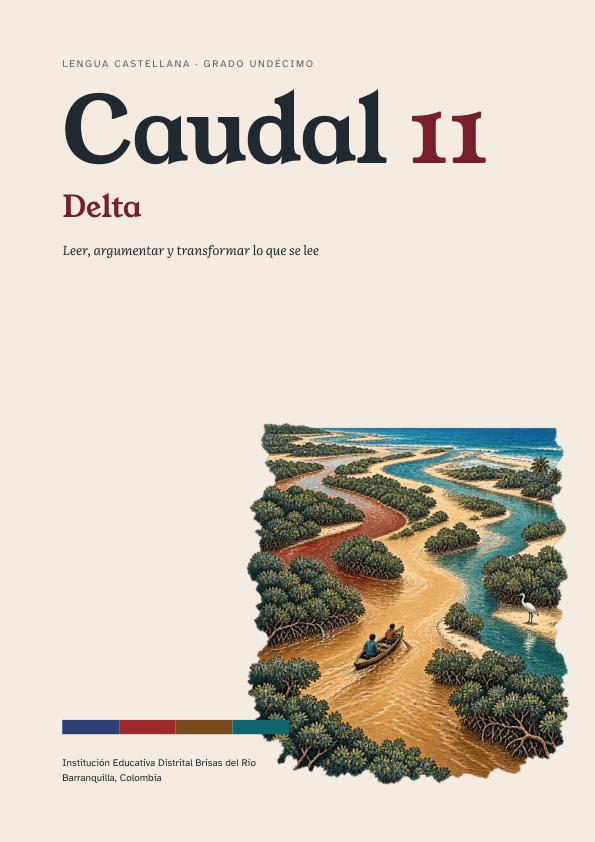
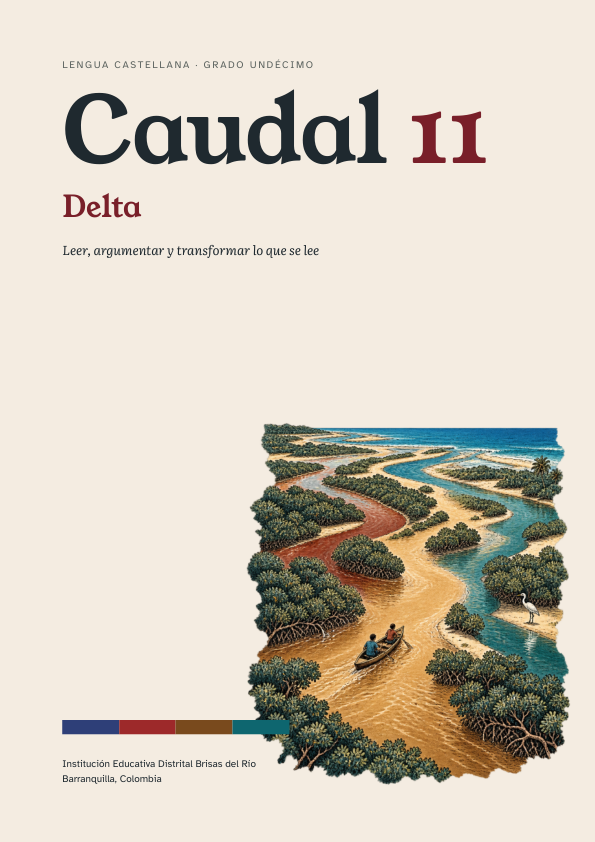
Publica la edición v0.2.0 de Caudal 9, 10 y 11
Caudal 9 pasa a Cabeceras (222 páginas, corrientes en PDF propios) y
Caudal 10 suma su guía docente. README, catálogo, cita, registro de
versiones, portadas y manifiestos apuntan a la publicación v0.2.0; las
guías complementarias y el ZIP de recursos siguen en v0.1.0.

diff --git a/README.md b/README.md
@@ -6,7 +6,7 @@
 
 **Leer, conversar, crear y volver a pensar.**
 
-Proyecto en curso · v0.1.0 · Barranquilla, Colombia
+Proyecto en curso · v0.2.0 · Barranquilla, Colombia
 
 [Libros y descargas](#libros-y-descargas) · [Recursos para el aula](#recursos-para-el-aula) · [Investigación](#un-proyecto-en-construcción) · [Bitácora](docs/BITACORA.md) · [Licencia](DERECHOS.md)
 
@@ -23,22 +23,22 @@ Caudal propone un recorrido por la literatura, las voces del territorio y las pr
 Los enlaces de las portadas descargan los **PDF completos y originales**. Se conservan su contenido, diseño, paginación y créditos.
 
 <table><tr>
-<td align="center" width="33%"><a href="https://github.com/nestorfernando3/caudal/releases/download/v0.1.0/caudal-9-libro-del-estudiante.pdf"><img src="docs/imagenes/caudal-9-portada.png" width="280" alt="Portada original de Caudal 9" /></a><br /><strong>Caudal 9</strong><br />Lengua Castellana<br /><sub>305 páginas</sub><br /><br /><a href="https://github.com/nestorfernando3/caudal/releases/download/v0.1.0/caudal-9-libro-del-estudiante.pdf"><strong>Descargar libro completo</strong></a></td>
-<td align="center" width="33%"><a href="https://github.com/nestorfernando3/caudal/releases/download/v0.1.0/caudal-10-libro-del-estudiante.pdf"><img src="docs/imagenes/caudal-10-portada.png" width="280" alt="Portada original de Caudal 10" /></a><br /><strong>Caudal 10</strong><br />Confluencias<br /><sub>109 páginas</sub><br /><br /><a href="https://github.com/nestorfernando3/caudal/releases/download/v0.1.0/caudal-10-libro-del-estudiante.pdf"><strong>Descargar libro completo</strong></a></td>
-<td align="center" width="33%"><a href="https://github.com/nestorfernando3/caudal/releases/download/v0.1.0/caudal-11-libro-del-estudiante.pdf"><img src="docs/imagenes/caudal-11-portada.png" width="280" alt="Portada original de Caudal 11" /></a><br /><strong>Caudal 11</strong><br />Delta<br /><sub>169 páginas</sub><br /><br /><a href="https://github.com/nestorfernando3/caudal/releases/download/v0.1.0/caudal-11-libro-del-estudiante.pdf"><strong>Descargar libro completo</strong></a></td>
+<td align="center" width="33%"><a href="https://github.com/nestorfernando3/caudal/releases/download/v0.2.0/caudal-9-libro-del-estudiante.pdf"><img src="docs/imagenes/caudal-9-portada.png" width="280" alt="Portada original de Caudal 9" /></a><br /><strong>Caudal 9</strong><br />Cabeceras<br /><sub>222 páginas</sub><br /><br /><a href="https://github.com/nestorfernando3/caudal/releases/download/v0.2.0/caudal-9-libro-del-estudiante.pdf"><strong>Descargar libro completo</strong></a></td>
+<td align="center" width="33%"><a href="https://github.com/nestorfernando3/caudal/releases/download/v0.2.0/caudal-10-libro-del-estudiante.pdf"><img src="docs/imagenes/caudal-10-portada.png" width="280" alt="Portada original de Caudal 10" /></a><br /><strong>Caudal 10</strong><br />Confluencias<br /><sub>109 páginas</sub><br /><br /><a href="https://github.com/nestorfernando3/caudal/releases/download/v0.2.0/caudal-10-libro-del-estudiante.pdf"><strong>Descargar libro completo</strong></a></td>
+<td align="center" width="33%"><a href="https://github.com/nestorfernando3/caudal/releases/download/v0.2.0/caudal-11-libro-del-estudiante.pdf"><img src="docs/imagenes/caudal-11-portada.png" width="280" alt="Portada original de Caudal 11" /></a><br /><strong>Caudal 11</strong><br />Delta<br /><sub>169 páginas</sub><br /><br /><a href="https://github.com/nestorfernando3/caudal/releases/download/v0.2.0/caudal-11-libro-del-estudiante.pdf"><strong>Descargar libro completo</strong></a></td>
 </tr></table>
 
-### Caudal 9 · El corazón, las palabras y el entorno
+### Caudal 9 · Cabeceras
 
-Una entrada a la lectura literaria que conecta emociones, formas de narrar y problemas del entorno. El Romanticismo, el Realismo, el Naturalismo, el Modernismo y las rupturas de la vanguardia se encuentran con la crónica, el teatro, el debate y la escritura propia. La colección empieza por aprender a leer con atención y a sostener una interpretación con pistas del texto.
+Una entrada a la lectura literaria que conecta emociones, formas de narrar y problemas del entorno. El Romanticismo, el Realismo, el Naturalismo, el Modernismo y las rupturas de la vanguardia se encuentran con la crónica, el teatro, el debate y la escritura propia. **Leer, citar y opinar con razones.** La colección empieza por aprender a leer con atención y a sostener una interpretación con pistas del texto.
 
-Sus cuatro unidades son *El corazón y el espejo*, *La selva que devora*, *Lo que dicen las palabras* y *Romper el molde*. El volumen incorpora diagnóstico, actividades, Banco Saber, glosario y portafolio.
+Sus cuatro corrientes son *El corazón y el espejo*, *La selva que devora*, *Lo que dicen las palabras* y *Romper el molde*. El volumen incorpora diagnóstico, actividades con rutas de apoyo y de ampliación, Banco Saber, glosario y portafolio. La edición v0.2.0 se rehízo a partir de lo que propusieron estudiantes que leyeron el libro: la [bitácora](docs/BITACORA.md) cuenta qué cambió y por qué. Las corrientes también pueden descargarse por separado desde la [publicación de la colección](https://github.com/nestorfernando3/caudal/releases/tag/v0.2.0).
 
 ### Caudal 10 · Confluencias
 
 **Leer, contrastar y sostener una idea.** El diálogo entre épocas y voces orienta un recorrido por la literatura medieval, el Siglo de Oro, el Romanticismo y las vanguardias. Las lecturas se ponen en relación con discursos, imágenes, datos y preguntas del presente; el trabajo conduce a contrastar versiones, construir argumentos y responder objeciones.
 
-Sus cuatro corrientes son *Quien canta, cuenta*, *Lo que se dice a media voz*, *Ver para contar* y *Romper y sostener*. También pueden descargarse como cuadernillos independientes desde la [publicación de la colección](https://github.com/nestorfernando3/caudal/releases/tag/v0.1.0).
+Sus cuatro corrientes son *Quien canta, cuenta*, *Lo que se dice a media voz*, *Ver para contar* y *Romper y sostener*. También pueden descargarse como cuadernillos independientes desde la [publicación de la colección](https://github.com/nestorfernando3/caudal/releases/tag/v0.2.0).
 
 ### Caudal 11 · Delta
 
@@ -50,11 +50,11 @@ Sus cuatro corrientes son *Mirar de frente*, *Voces a contracorriente*, *El peso
 
 | Grado | Biblioteca del río | Guía del docente |
 |---|---|---|
-| 9.º | [Descargar lecturas](https://github.com/nestorfernando3/caudal/releases/download/v0.1.0/caudal-9-biblioteca-del-rio.pdf) | [Descargar guía](https://github.com/nestorfernando3/caudal/releases/download/v0.1.0/caudal-9-guia-docente.pdf) |
-| 10.º | [Descargar lecturas](https://github.com/nestorfernando3/caudal/releases/download/v0.1.0/caudal-10-biblioteca-del-rio.pdf) | [Descargar guía](https://github.com/nestorfernando3/caudal/releases/download/v0.1.0/Caudal_10_Guia_para_el_docente.pdf) |
-| 11.º | [Descargar lecturas](https://github.com/nestorfernando3/caudal/releases/download/v0.1.0/caudal-11-biblioteca-del-rio.pdf) | [Descargar guía](https://github.com/nestorfernando3/caudal/releases/download/v0.1.0/caudal-11-guia-docente.pdf) |
+| 9.º | [Descargar lecturas](https://github.com/nestorfernando3/caudal/releases/download/v0.2.0/caudal-9-biblioteca-del-rio.pdf) | [Descargar guía](https://github.com/nestorfernando3/caudal/releases/download/v0.2.0/caudal-9-guia-docente.pdf) |
+| 10.º | [Descargar lecturas](https://github.com/nestorfernando3/caudal/releases/download/v0.2.0/caudal-10-biblioteca-del-rio.pdf) | [Descargar guía](https://github.com/nestorfernando3/caudal/releases/download/v0.2.0/caudal-10-guia-docente.pdf) |
+| 11.º | [Descargar lecturas](https://github.com/nestorfernando3/caudal/releases/download/v0.2.0/caudal-11-biblioteca-del-rio.pdf) | [Descargar guía](https://github.com/nestorfernando3/caudal/releases/download/v0.2.0/caudal-11-guia-docente.pdf) |
 
-También está disponible la [guía complementaria de Caudal 11](https://github.com/nestorfernando3/caudal/releases/download/v0.1.0/Caudal_11_Guia_para_el_docente.pdf). El [catálogo completo](docs/CATALOGO.md) identifica cada PDF y su extensión. Todas las descargas están reunidas en la [publicación v0.1.0](https://github.com/nestorfernando3/caudal/releases/tag/v0.1.0).
+Las guías complementarias de [Caudal 10](https://github.com/nestorfernando3/caudal/releases/download/v0.1.0/Caudal_10_Guia_para_el_docente.pdf) y [Caudal 11](https://github.com/nestorfernando3/caudal/releases/download/v0.1.0/Caudal_11_Guia_para_el_docente.pdf) siguen disponibles en la publicación anterior. El [catálogo completo](docs/CATALOGO.md) identifica cada PDF y su extensión. Todas las descargas vigentes están reunidas en la [publicación v0.2.0](https://github.com/nestorfernando3/caudal/releases/tag/v0.2.0); la [v0.1.0](https://github.com/nestorfernando3/caudal/releases/tag/v0.1.0) conserva la edición anterior.
 
 ## Una ruta que recorre la colección
 
@@ -91,7 +91,7 @@ La [bitácora de la serie](docs/BITACORA.md) cuenta, paso a paso y en lenguaje s
 
 ## Cómo citar
 
-> De León Llanos, N. F. (2026). *Caudal: Lengua Castellana, grados 9, 10 y 11* (v0.1.0) [Proyecto en curso y materiales pedagógicos]. GitHub. https://github.com/nestorfernando3/caudal
+> De León Llanos, N. F. (2026). *Caudal: Lengua Castellana, grados 9, 10 y 11* (v0.2.0) [Proyecto en curso y materiales pedagógicos]. GitHub. https://github.com/nestorfernando3/caudal
 
 Para citar un libro o una ficha, añade su título y la página o sección utilizada. Los [metadatos de cita](CITATION.cff), el [catálogo de PDF](docs/CATALOGO.json) y los [manifiestos de archivos](MANIFEST.json) permiten identificar las versiones.
 

diff --git a/docs/CATALOGO.md b/docs/CATALOGO.md
@@ -1,26 +1,31 @@
 # Catálogo de Caudal 9, 10 y 11
 
-PDF originales disponibles para descarga. Corte del archivo: 25 de octubre de 2026.
+PDF originales disponibles para descarga. Corte del archivo: 2 de noviembre de 2026 (v0.2.0).
 
 | Grado | Archivo | Páginas |
 |---|---|---:|
-| 9 | [caudal-9-biblioteca-del-rio.pdf](https://github.com/nestorfernando3/caudal/releases/download/v0.1.0/caudal-9-biblioteca-del-rio.pdf) | 575 |
-| 9 | [caudal-9-guia-docente.pdf](https://github.com/nestorfernando3/caudal/releases/download/v0.1.0/caudal-9-guia-docente.pdf) | 73 |
-| 9 | [caudal-9-libro-del-estudiante.pdf](https://github.com/nestorfernando3/caudal/releases/download/v0.1.0/caudal-9-libro-del-estudiante.pdf) | 305 |
-| 10 | [caudal-10-biblioteca-del-rio.pdf](https://github.com/nestorfernando3/caudal/releases/download/v0.1.0/caudal-10-biblioteca-del-rio.pdf) | 112 |
-| 10 | [caudal-10-corriente-1-quien-canta-cuenta.pdf](https://github.com/nestorfernando3/caudal/releases/download/v0.1.0/caudal-10-corriente-1-quien-canta-cuenta.pdf) | 18 |
-| 10 | [caudal-10-corriente-2-lo-que-se-dice-a-media-voz.pdf](https://github.com/nestorfernando3/caudal/releases/download/v0.1.0/caudal-10-corriente-2-lo-que-se-dice-a-media-voz.pdf) | 27 |
-| 10 | [caudal-10-corriente-3-ver-para-contar.pdf](https://github.com/nestorfernando3/caudal/releases/download/v0.1.0/caudal-10-corriente-3-ver-para-contar.pdf) | 25 |
-| 10 | [caudal-10-corriente-4-romper-y-sostener.pdf](https://github.com/nestorfernando3/caudal/releases/download/v0.1.0/caudal-10-corriente-4-romper-y-sostener.pdf) | 17 |
-| 10 | [caudal-10-libro-del-estudiante.pdf](https://github.com/nestorfernando3/caudal/releases/download/v0.1.0/caudal-10-libro-del-estudiante.pdf) | 109 |
-| 11 | [caudal-11-biblioteca-del-rio.pdf](https://github.com/nestorfernando3/caudal/releases/download/v0.1.0/caudal-11-biblioteca-del-rio.pdf) | 25 |
-| 11 | [caudal-11-corriente-1-mirar-de-frente.pdf](https://github.com/nestorfernando3/caudal/releases/download/v0.1.0/caudal-11-corriente-1-mirar-de-frente.pdf) | 39 |
-| 11 | [caudal-11-corriente-2-voces-a-contracorriente.pdf](https://github.com/nestorfernando3/caudal/releases/download/v0.1.0/caudal-11-corriente-2-voces-a-contracorriente.pdf) | 31 |
-| 11 | [caudal-11-corriente-3-el-peso-del-medio.pdf](https://github.com/nestorfernando3/caudal/releases/download/v0.1.0/caudal-11-corriente-3-el-peso-del-medio.pdf) | 35 |
-| 11 | [caudal-11-corriente-4-cambiar-de-forma.pdf](https://github.com/nestorfernando3/caudal/releases/download/v0.1.0/caudal-11-corriente-4-cambiar-de-forma.pdf) | 31 |
-| 11 | [caudal-11-guia-docente.pdf](https://github.com/nestorfernando3/caudal/releases/download/v0.1.0/caudal-11-guia-docente.pdf) | 54 |
-| 11 | [caudal-11-libro-del-estudiante.pdf](https://github.com/nestorfernando3/caudal/releases/download/v0.1.0/caudal-11-libro-del-estudiante.pdf) | 169 |
+| 9 | [caudal-9-biblioteca-del-rio.pdf](https://github.com/nestorfernando3/caudal/releases/download/v0.2.0/caudal-9-biblioteca-del-rio.pdf) | 466 |
+| 9 | [caudal-9-corriente-1-el-corazon-y-el-espejo.pdf](https://github.com/nestorfernando3/caudal/releases/download/v0.2.0/caudal-9-corriente-1-el-corazon-y-el-espejo.pdf) | 49 |
+| 9 | [caudal-9-corriente-2-la-selva-que-devora.pdf](https://github.com/nestorfernando3/caudal/releases/download/v0.2.0/caudal-9-corriente-2-la-selva-que-devora.pdf) | 55 |
+| 9 | [caudal-9-corriente-3-lo-que-dicen-las-palabras.pdf](https://github.com/nestorfernando3/caudal/releases/download/v0.2.0/caudal-9-corriente-3-lo-que-dicen-las-palabras.pdf) | 46 |
+| 9 | [caudal-9-corriente-4-romper-el-molde.pdf](https://github.com/nestorfernando3/caudal/releases/download/v0.2.0/caudal-9-corriente-4-romper-el-molde.pdf) | 45 |
+| 9 | [caudal-9-guia-docente.pdf](https://github.com/nestorfernando3/caudal/releases/download/v0.2.0/caudal-9-guia-docente.pdf) | 44 |
+| 9 | [caudal-9-libro-del-estudiante.pdf](https://github.com/nestorfernando3/caudal/releases/download/v0.2.0/caudal-9-libro-del-estudiante.pdf) | 222 |
+| 10 | [caudal-10-biblioteca-del-rio.pdf](https://github.com/nestorfernando3/caudal/releases/download/v0.2.0/caudal-10-biblioteca-del-rio.pdf) | 112 |
+| 10 | [caudal-10-corriente-1-quien-canta-cuenta.pdf](https://github.com/nestorfernando3/caudal/releases/download/v0.2.0/caudal-10-corriente-1-quien-canta-cuenta.pdf) | 18 |
+| 10 | [caudal-10-corriente-2-lo-que-se-dice-a-media-voz.pdf](https://github.com/nestorfernando3/caudal/releases/download/v0.2.0/caudal-10-corriente-2-lo-que-se-dice-a-media-voz.pdf) | 26 |
+| 10 | [caudal-10-corriente-3-ver-para-contar.pdf](https://github.com/nestorfernando3/caudal/releases/download/v0.2.0/caudal-10-corriente-3-ver-para-contar.pdf) | 25 |
+| 10 | [caudal-10-corriente-4-romper-y-sostener.pdf](https://github.com/nestorfernando3/caudal/releases/download/v0.2.0/caudal-10-corriente-4-romper-y-sostener.pdf) | 17 |
+| 10 | [caudal-10-guia-docente.pdf](https://github.com/nestorfernando3/caudal/releases/download/v0.2.0/caudal-10-guia-docente.pdf) | 27 |
+| 10 | [caudal-10-libro-del-estudiante.pdf](https://github.com/nestorfernando3/caudal/releases/download/v0.2.0/caudal-10-libro-del-estudiante.pdf) | 109 |
+| 11 | [caudal-11-biblioteca-del-rio.pdf](https://github.com/nestorfernando3/caudal/releases/download/v0.2.0/caudal-11-biblioteca-del-rio.pdf) | 51 |
+| 11 | [caudal-11-corriente-1-mirar-de-frente.pdf](https://github.com/nestorfernando3/caudal/releases/download/v0.2.0/caudal-11-corriente-1-mirar-de-frente.pdf) | 39 |
+| 11 | [caudal-11-corriente-2-voces-a-contracorriente.pdf](https://github.com/nestorfernando3/caudal/releases/download/v0.2.0/caudal-11-corriente-2-voces-a-contracorriente.pdf) | 31 |
+| 11 | [caudal-11-corriente-3-el-peso-del-medio.pdf](https://github.com/nestorfernando3/caudal/releases/download/v0.2.0/caudal-11-corriente-3-el-peso-del-medio.pdf) | 35 |
+| 11 | [caudal-11-corriente-4-cambiar-de-forma.pdf](https://github.com/nestorfernando3/caudal/releases/download/v0.2.0/caudal-11-corriente-4-cambiar-de-forma.pdf) | 31 |
+| 11 | [caudal-11-guia-docente.pdf](https://github.com/nestorfernando3/caudal/releases/download/v0.2.0/caudal-11-guia-docente.pdf) | 55 |
+| 11 | [caudal-11-libro-del-estudiante.pdf](https://github.com/nestorfernando3/caudal/releases/download/v0.2.0/caudal-11-libro-del-estudiante.pdf) | 169 |
 | 10 | [Caudal_10_Guia_para_el_docente.pdf](https://github.com/nestorfernando3/caudal/releases/download/v0.1.0/Caudal_10_Guia_para_el_docente.pdf) | 37 |
 | 11 | [Caudal_11_Guia_para_el_docente.pdf](https://github.com/nestorfernando3/caudal/releases/download/v0.1.0/Caudal_11_Guia_para_el_docente.pdf) | 38 |
 
-Las guías complementarias se conservan como recursos separados. Los libros alternativos y las presentaciones mantienen su archivo privado. Las huellas SHA-256 están en [CATALOGO.json](CATALOGO.json).
+Las guías complementarias de 10 y 11 se conservan como recursos separados en la publicación v0.1.0, que guarda también la edición anterior de los libros. Los libros alternativos y las presentaciones mantienen su archivo privado. Las huellas SHA-256 están en [CATALOGO.json](CATALOGO.json).

diff --git a/CHANGELOG.md b/CHANGELOG.md
@@ -1,8 +1,8 @@
 # Registro de versiones
 
-## En preparación · 1 y 2 de noviembre de 2026
+## v0.2.0 · 2 de noviembre de 2026 · Proyecto en curso
 
-Revisión de la serie a partir de una consulta a estudiantes de 8A, que leyeron *Caudal 9* y propusieron cambios. *Caudal 9* se rehace con el diseño de 10 y 11 y pasa a llamarse *Cabeceras*: corrientes en lugar de unidades, lecturas largas en la *Biblioteca del río 9*, glosas en las lecturas comunes, una voz del Caribe en cada corriente, anuncios con formatos actuales, edición para celular y rutas Cauce, Remo y Afluente visibles en cada actividad. Entran una charla de William Kamkwamba, dos canciones de Jorge Drexler y una lectura dramatizada, con códigos QR a sus fuentes. *Caudal 10* recibe guía docente completa y DBA corregidos; *Caudal 11*, una clave del simulacro revisada y una *Biblioteca del río* que ya no repite el libro. La [bitácora](docs/BITACORA.md) cuenta paso a paso qué cambió, quién lo motivó y qué decisiones tomó el autor. Las descargas siguen siendo las de v0.1.0: las nuevas ediciones se publicarán en una versión posterior.
+Revisión de la serie a partir de una consulta a estudiantes de 8A, que leyeron *Caudal 9* y propusieron cambios. *Caudal 9* se rehace con el diseño de 10 y 11 y pasa a llamarse *Cabeceras*: corrientes en lugar de unidades, lecturas largas en la *Biblioteca del río 9*, glosas en las lecturas comunes, una voz del Caribe en cada corriente, anuncios con formatos actuales, edición para celular y rutas Cauce, Remo y Afluente visibles en cada actividad. Entran una charla de William Kamkwamba, dos canciones de Jorge Drexler y una lectura dramatizada, con códigos QR a sus fuentes. *Caudal 10* recibe guía docente completa y DBA corregidos; *Caudal 11*, una clave del simulacro revisada y una *Biblioteca del río* que ya no repite el libro. La [bitácora](docs/BITACORA.md) cuenta paso a paso qué cambió, quién lo motivó y qué decisiones tomó el autor. La publicación v0.2.0 trae 21 PDF: libro, corrientes, guía docente y biblioteca de cada grado. *Caudal 9* tiene 222 páginas y, por primera vez, sus corrientes en PDF independientes; *Caudal 10*, su guía docente. La publicación v0.1.0 conserva la edición anterior, las guías complementarias y el ZIP de recursos, que no cambian.
 
 ## v0.1.0 · 25 de octubre de 2026 · Proyecto en curso
 
